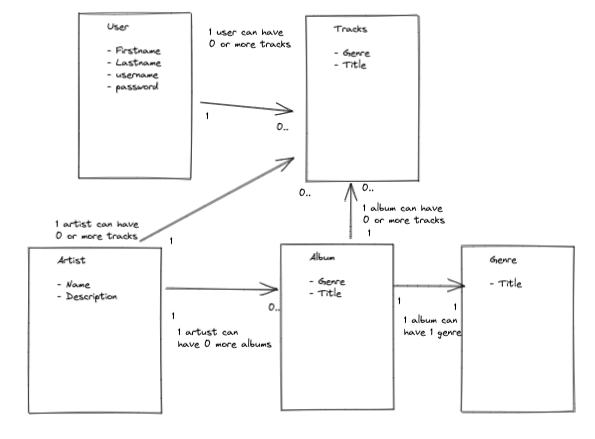
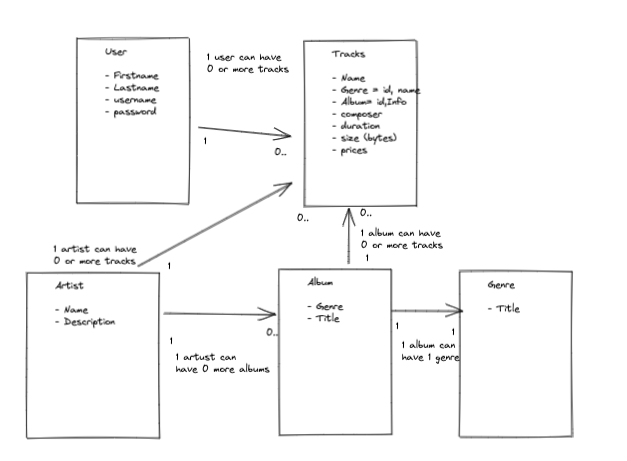
Update Files

Changed region(s): [[0.0303, 0.0296, 0.9681, 0.9772]]

diff --git a/routes/tracks.js b/routes/tracks.js
@@ -1,0 +1,28 @@
+const mongoose = require('mongoose');
+
+
+const trackSchema = new mongoose.Schema({
+    id: {
+        type: Number,
+        required: true
+    },
+    title: {
+        type: String,
+        required: true,
+        trim: true
+    },
+    genre: {
+        type: String,
+        required: true,
+        trim: true
+    },
+    albumInformation: {
+        type: String,
+        required: true,
+        trim: true
+    },
+});
+
+const Track = mongoose.model('Track', trackSchema);
+
+module.exports = { Track };

diff --git a/README.md b/README.md
@@ -1,7 +1,7 @@
 # ISDB-App
 
-> Outline a brief description of your project.
-> Live demo [_here_](https://www.example.com). <!-- If you have the project hosted somewhere, include the link here. -->
+> This project follows on from IMDB (Internet Movie Database), launching and plan to sell on an ISDB (Internet Song Database). The collection includes more than 3000 tracks from 300+ albums.
+> Live demo [_here_](https://deploy-isdb.herokuapp.com/). <!-- If you have the project hosted somewhere, include the link here. -->
 
 ## Table of Contents
 
@@ -20,11 +20,20 @@
 
 ## General Information
 
-- Provide general information about your project here.
-  User Story:-
-  > [_here_](https://miro.com/app/board/uXjVOVHkNlY=/)
+> Purpose of the project is to design an API on ISDB. This is so customers can build various front ends needed to use the database.
+> User Story:-
+> [_here_](https://miro.com/app/board/uXjVOVHkNlY=/)
+> This API provieds the folling endpoints:-
+
+- /register
+- /login
+- /tracks/:id
+- /genres
+- /albums
+- /tracks
+- /artists/:id
+
 - What problem does it (intend to) solve?
-- What is the purpose of your project?
 - Why did you undertake it?
 <!-- You don't have to answer all the questions - just the ones relevant to your project. -->
 
@@ -68,6 +77,7 @@ Proceed to describe how to install / setup one's local environment / get started
 
 - Scaffold an express application `npm install -g express-generator` and launch VS code.
 - Without going through all the steps install npm project `npm init -y`.
+- Installed eslint used in two cases, adhere to set standard and how it was violated.
   ......
 
 ## Development Stage
@@ -82,6 +92,10 @@ Proceed to describe how to install / setup one's local environment / get started
 - Deploy express App and removed unused code.
 
 2. What are you going to work on next
+
+- Implement project data and create entities for tracks, albums, artists and genres.
+- Define and create a Schema and model with reference to the model diagram.
+- Create ejs files.
 
 3. What blockers you have (if any)
 
@@ -122,7 +136,7 @@ Give credit here.
 
 ## Contact
 
-Created by [@flynerdpl](https://www.flynerd.pl/) - feel free to contact me!
+Created by [Stanton]() - feel free to contact me!
 
 <!-- Optional -->
 <!-- ## License -->
